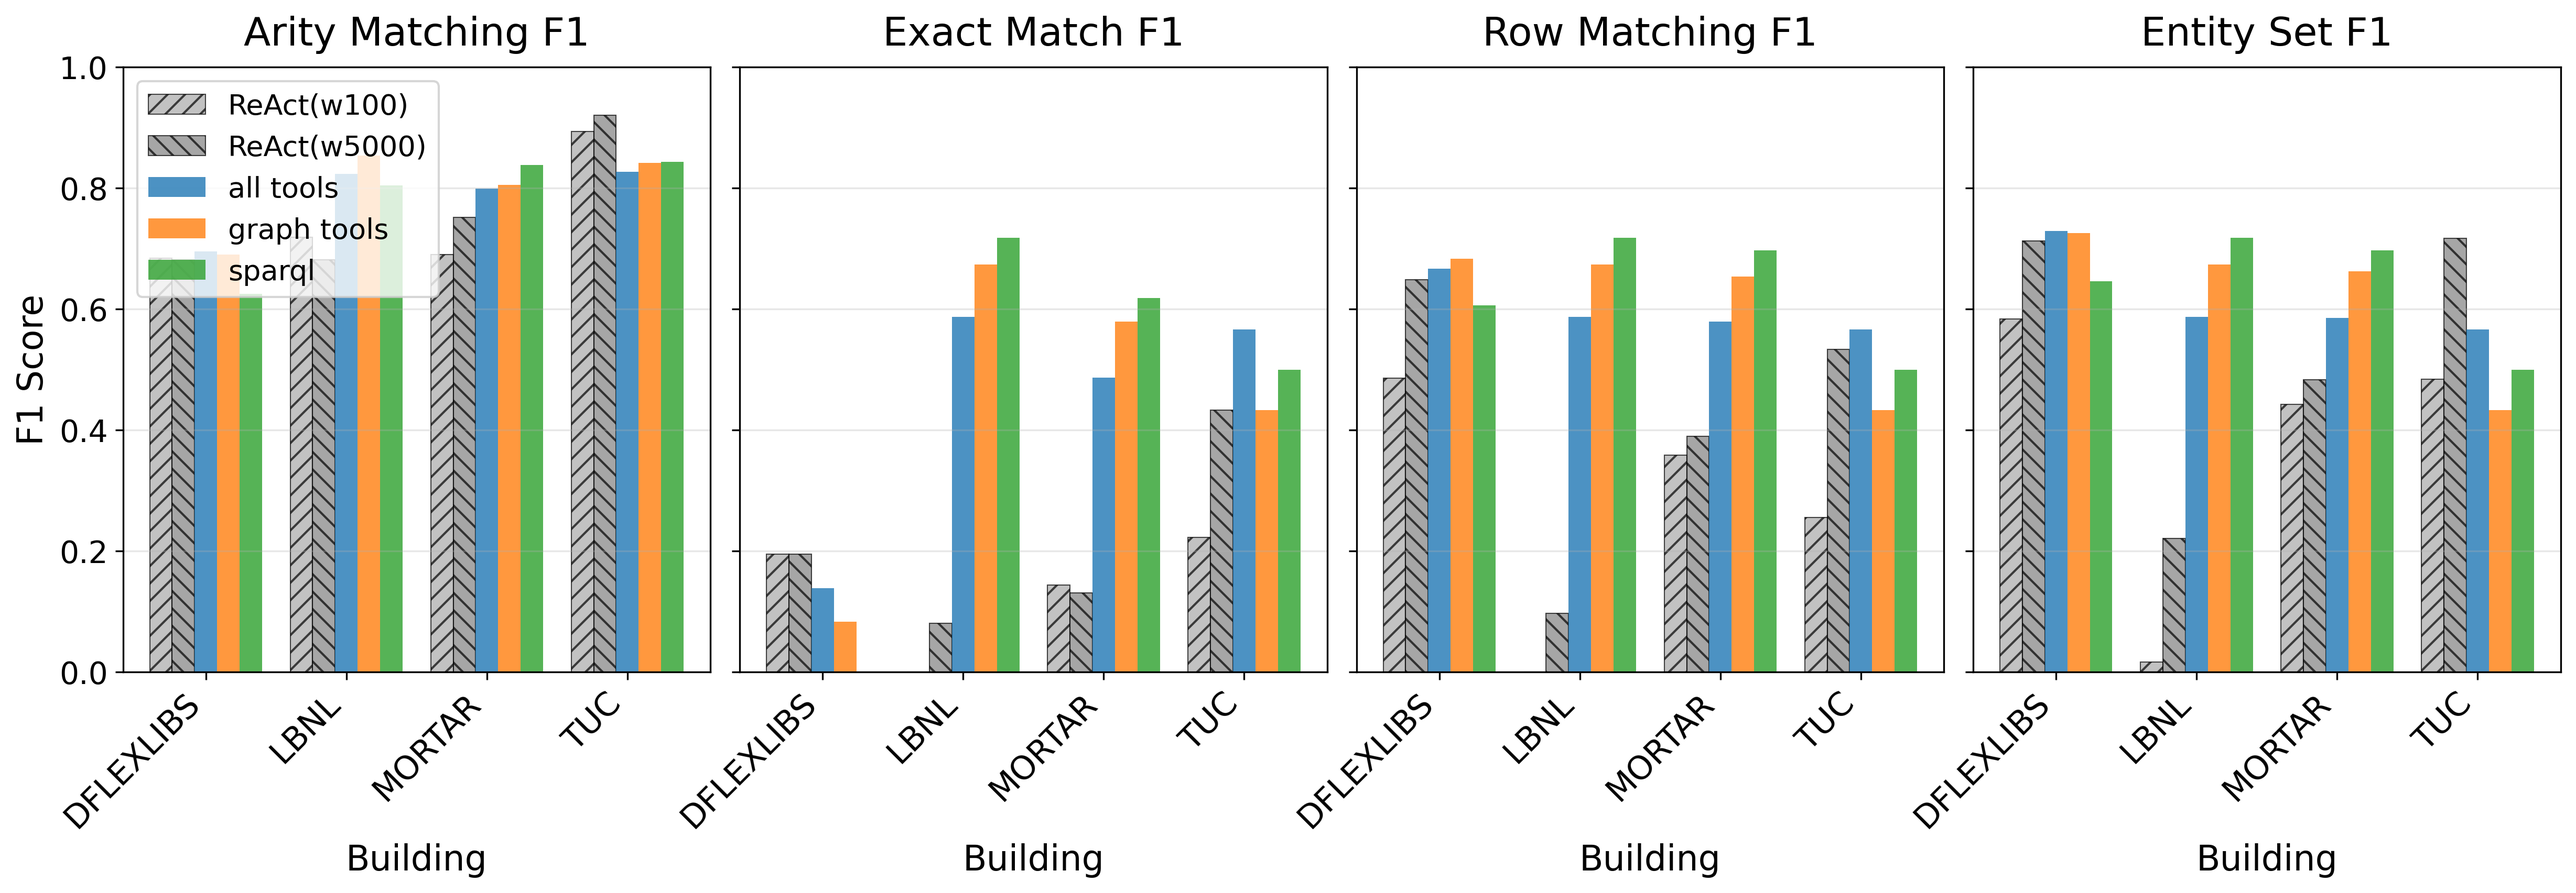
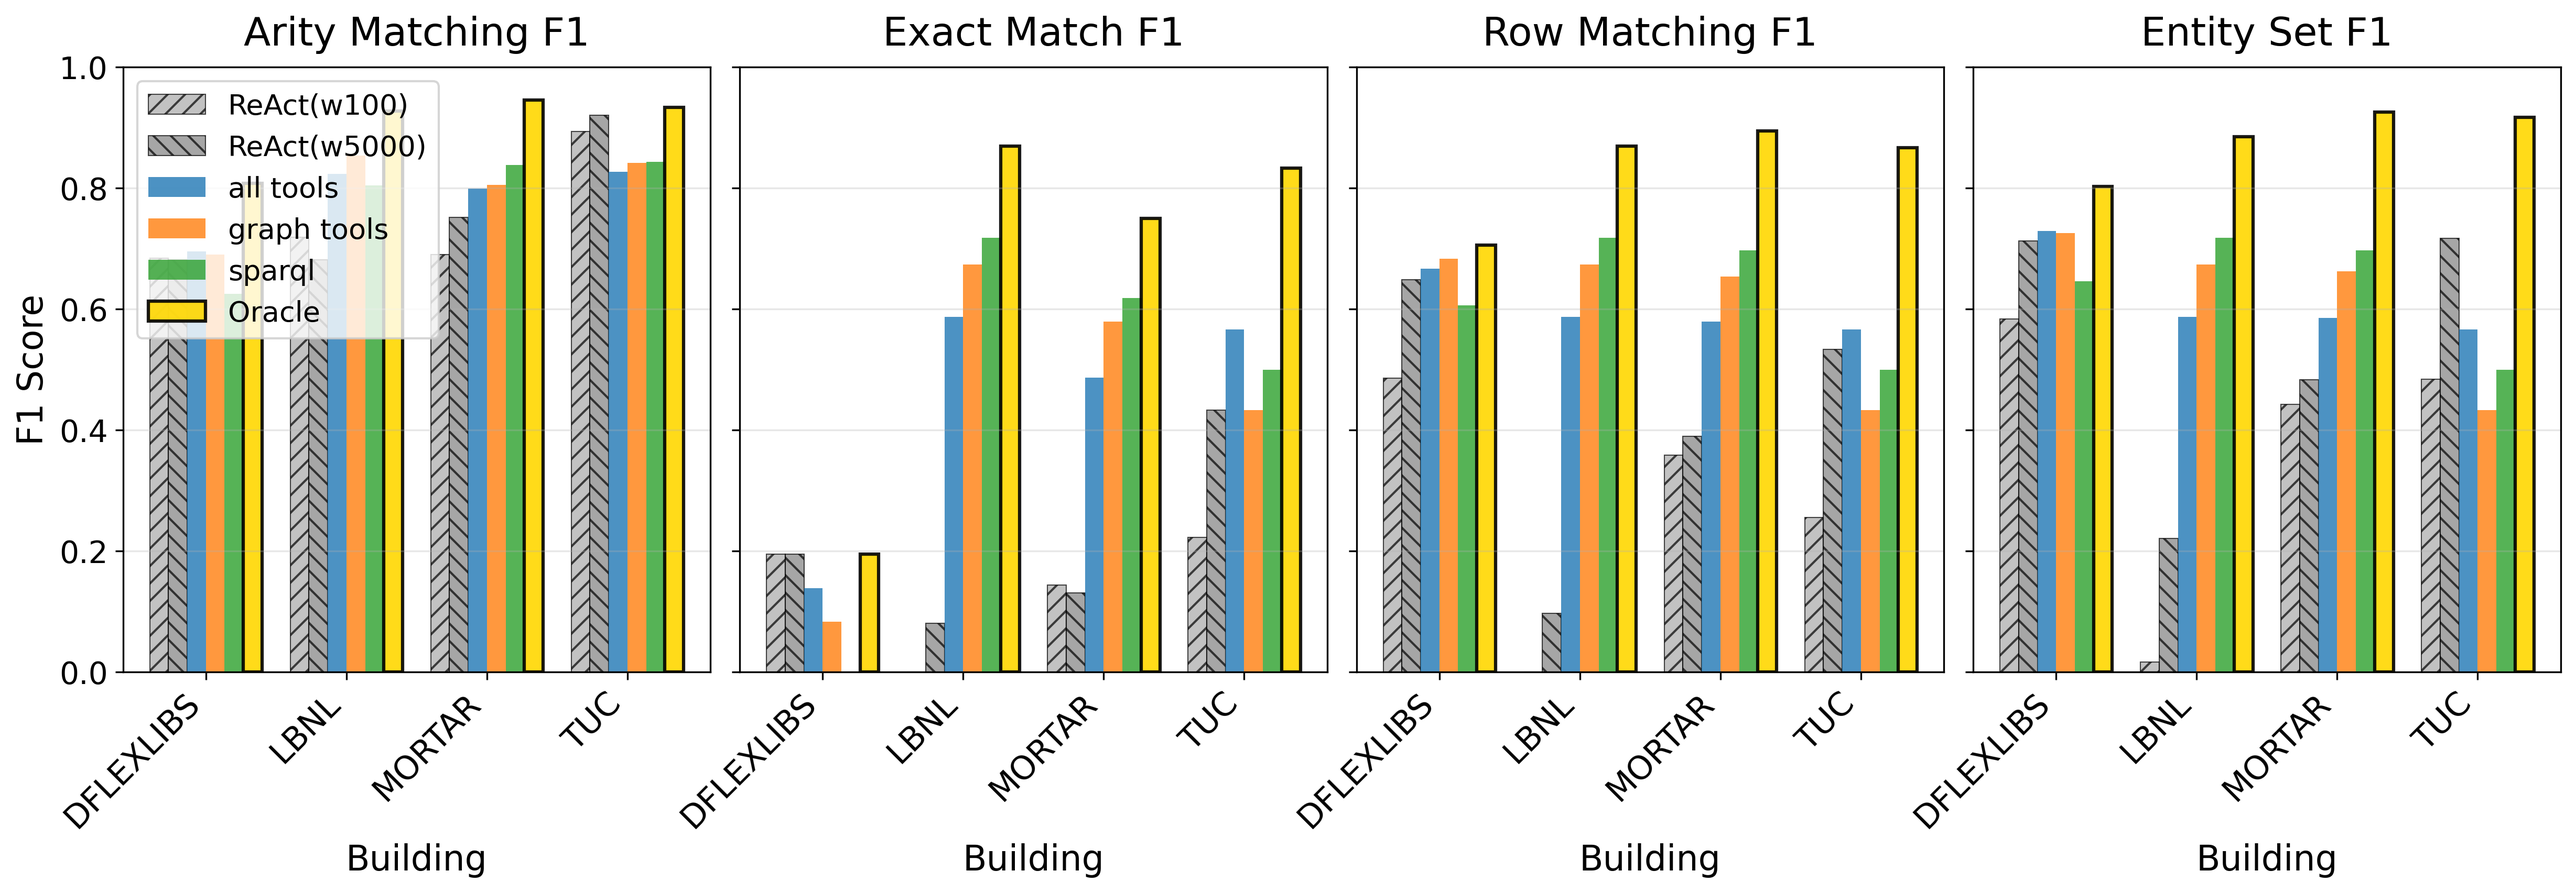
adding oracle plot

Changed region(s): [[0.3114, 0.1554, 0.7473, 0.7771], [0.0311, 0.0933, 0.2802, 0.7771], [0.7784, 0.1243, 0.9963, 0.7771]]

diff --git a/scripts/visualize_metrics.py b/scripts/visualize_metrics.py
@@ -38,6 +38,81 @@ def convert_to_numeric(value, default=0.0):
 # ----------------------------------------------------------------------
 # Building-level metrics computation
 # ----------------------------------------------------------------------
+def compute_oracle_building_metrics(all_file_metrics: Dict[str, Dict[str, dict]]):
+    """
+    Compute oracle (maximum) scores per building by taking the best score
+    from any model for each question.
+    
+    Returns:
+        Dict with building-level oracle statistics (same format as compute_building_metrics)
+    """
+    # Organize by building
+    by_building = defaultdict(lambda: {
+        "arity_matching_f1": [],
+        "exact_match_f1": [],
+        "entity_set_f1": [],
+        "row_matching_f1": []
+    })
+    
+    # Get all unique questions
+    all_questions = set()
+    for file_metrics in all_file_metrics.values():
+        all_questions.update(file_metrics.keys())
+    
+    # For each question, find max score and assign to building
+    for question in all_questions:
+        # Find which building this question belongs to
+        building = None
+        for file_metrics in all_file_metrics.values():
+            if question in file_metrics:
+                query_id = file_metrics[question]["query_id"]
+                building = query_id.split("_")[0] if "_" in query_id else query_id
+                break
+        
+        if not building:
+            continue
+        
+        # Collect max scores across all models for this question
+        max_scores = {
+            "arity_matching_f1": 0.0,
+            "exact_match_f1": 0.0,
+            "entity_set_f1": 0.0,
+            "row_matching_f1": 0.0
+        }
+        
+        for file_metrics in all_file_metrics.values():
+            if question in file_metrics:
+                for metric in max_scores.keys():
+                    max_scores[metric] = max(max_scores[metric], 
+                                            file_metrics[question][metric])
+        
+        # Add to building
+        for metric in max_scores.keys():
+            by_building[building][metric].append(max_scores[metric])
+    
+    # Compute statistics per building
+    oracle_stats = {}
+    for building, metrics in by_building.items():
+        oracle_stats[building] = {
+            "count": len(metrics["row_matching_f1"]),
+            "f1_scores": {}
+        }
+        
+        for f1_type in ["arity_matching_f1", "exact_match_f1", "entity_set_f1", 
+                        "row_matching_f1"]:
+            values = metrics[f1_type]
+            mean_val = statistics.mean(values) if values else 0.0
+            stdev_val = statistics.stdev(values) if len(values) > 1 else 0.0
+            cv_val = (stdev_val / mean_val) if mean_val > 0 else 0.0
+            
+            oracle_stats[building]["f1_scores"][f1_type] = {
+                "mean": mean_val,
+                "stdev": stdev_val,
+                "cv": cv_val
+            }
+    
+    return oracle_stats
+
 def compute_building_metrics(data):
     """Compute building-level metrics from CSV data."""
     by_building = defaultdict(lambda: {
@@ -228,6 +303,7 @@ def plot_performance_vs_tokens_scatter(
 def plot_all_f1_metrics_comparison(
     baseline_dict: Dict[str, dict],
     test_dict: Dict[str, dict],
+    oracle_dict: Dict[str, dict] = None,  # NEW: Add oracle parameter
     output_path: str = "all_metrics_comparison.png"
 ):
     """Create a single-row figure comparing selected F1 metrics (mean values)."""
@@ -245,6 +321,8 @@ def plot_all_f1_metrics_comparison(
     
     x = np.arange(len(buildings))
     total_bars = len(baseline_dict) + len(test_dict)
+    if oracle_dict:
+        total_bars += 1  # Add one for oracle
     width = 0.8 / total_bars
     
     # Baseline colors and patterns
@@ -253,6 +331,9 @@ def plot_all_f1_metrics_comparison(
     
     # Test colors
     test_colors = ['#1f77b4', '#ff7f0e', '#2ca02c', '#d62728', '#9467bd', '#8c564b']
+    
+    # Oracle color (gold/yellow to stand out)
+    oracle_color = '#FFD700'
     
     for idx, (f1_metric, title) in enumerate(zip(f1_metrics, metric_titles)):
         ax = axes[idx]
@@ -291,6 +372,20 @@ def plot_all_f1_metrics_comparison(
                    alpha=0.8, color=color)
             bar_idx += 1
         
+        # NEW: Plot oracle
+        if oracle_dict:
+            means = []
+            for building in buildings:
+                if building in oracle_dict:
+                    means.append(oracle_dict[building]["f1_scores"][f1_metric]["mean"])
+                else:
+                    means.append(0.0)
+            
+            offset = width * (bar_idx - total_bars / 2 + 0.5)
+            label = "Oracle" if idx == 0 else None
+            ax.bar(x + offset, means, width, label=label, 
+                   alpha=0.9, color=oracle_color, edgecolor='black', linewidth=1.5)
+        
         ax.set_xlabel('Building', fontsize=16)
         if idx == 0:
             ax.set_ylabel('F1 Score', fontsize=16)
@@ -308,8 +403,6 @@ def plot_all_f1_metrics_comparison(
         ax.grid(axis='y', alpha=0.3)
         ax.set_ylim(0, 1.0)  # Common y-axis for all F1 scores
     
-    # fig.suptitle('Performance Comparison Across Metrics (Mean)', 
-    #              fontsize=22, y=1.00)
     plt.subplots_adjust(wspace=0.05)  # Make plots touch each other
     plt.savefig(output_path, dpi=300, bbox_inches='tight')
     print(f"Multi-panel comparison saved to: {output_path}")
@@ -720,13 +813,54 @@ def main():
         test_overall_dict[name] = overall_stats
         print(f"  Loaded {len(data)} records, {len(building_stats)} buildings")
     
+    print("\nComputing oracle (maximum achievable) scores...")
+    all_file_metrics = {}
+    
+    # Collect from baselines
+    for name in baseline_dict.keys():
+        csv_path = None
+        for arg in args.baseline:
+            if ':' in arg:
+                arg_name, arg_path = arg.split(':', 1)
+                if arg_name == name:
+                    csv_path = arg_path
+                    break
+            else:
+                if Path(arg).stem == name:
+                    csv_path = arg
+                    break
+        
+        if csv_path:
+            data = load_csv_data(csv_path)
+            all_file_metrics[name] = compute_per_question_metrics(data, name)
+    
+    # Collect from tests
+    for name in test_dict.keys():
+        csv_path = None
+        for arg in args.test:
+            if ':' in arg:
+                arg_name, arg_path = arg.split(':', 1)
+                if arg_name == name:
+                    csv_path = arg_path
+                    break
+            else:
+                if Path(arg).stem == name:
+                    csv_path = arg
+                    break
+        
+        if csv_path:
+            data = load_csv_data(csv_path)
+            all_file_metrics[name] = compute_per_question_metrics(data, name)
+
     # Create output directory
     output_dir = Path(args.output_dir)
     output_dir.mkdir(exist_ok=True)
     
     # Generate visualizations
     print("\nGenerating visualizations...")
-
+    # Compute oracle building-level metrics
+    oracle_dict = compute_oracle_building_metrics(all_file_metrics)
+    
     
     plot_performance_vs_tokens_scatter(
         baseline_overall_dict,
@@ -737,8 +871,10 @@ def main():
     plot_all_f1_metrics_comparison(
         baseline_dict,
         test_dict,
+        oracle_dict=oracle_dict,  # NEW: Pass oracle data
         output_path=str(output_dir / "all_metrics_comparison.png")
     )
+    
     
     print("\nAll visualizations complete!")
 # NEW: Per-question similarity analysis
